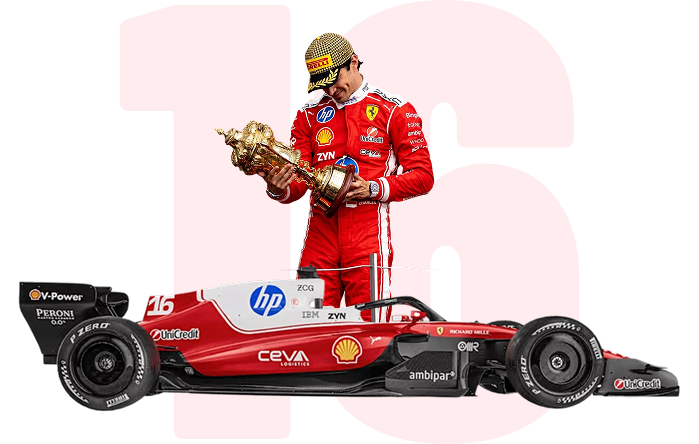
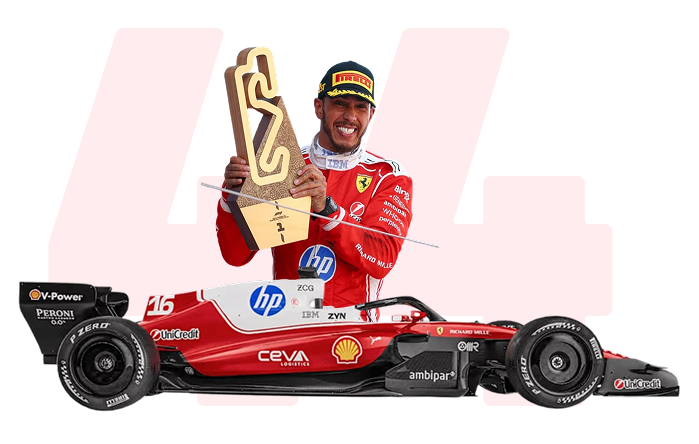
Fixed racer file issues and wrong sizing

Changed region(s): [[0.2704, 0.0586, 0.6309, 0.732]]

diff --git a/F1-Showroom/index.html b/F1-Showroom/index.html
@@ -251,7 +251,7 @@
                 round: 11,
                 track: "Hungary",
                 date: "26 July",
-                png: "racer4",
+                png: "racer5",
                 color: "mclaren",
                 textColor: "orange"
             },
